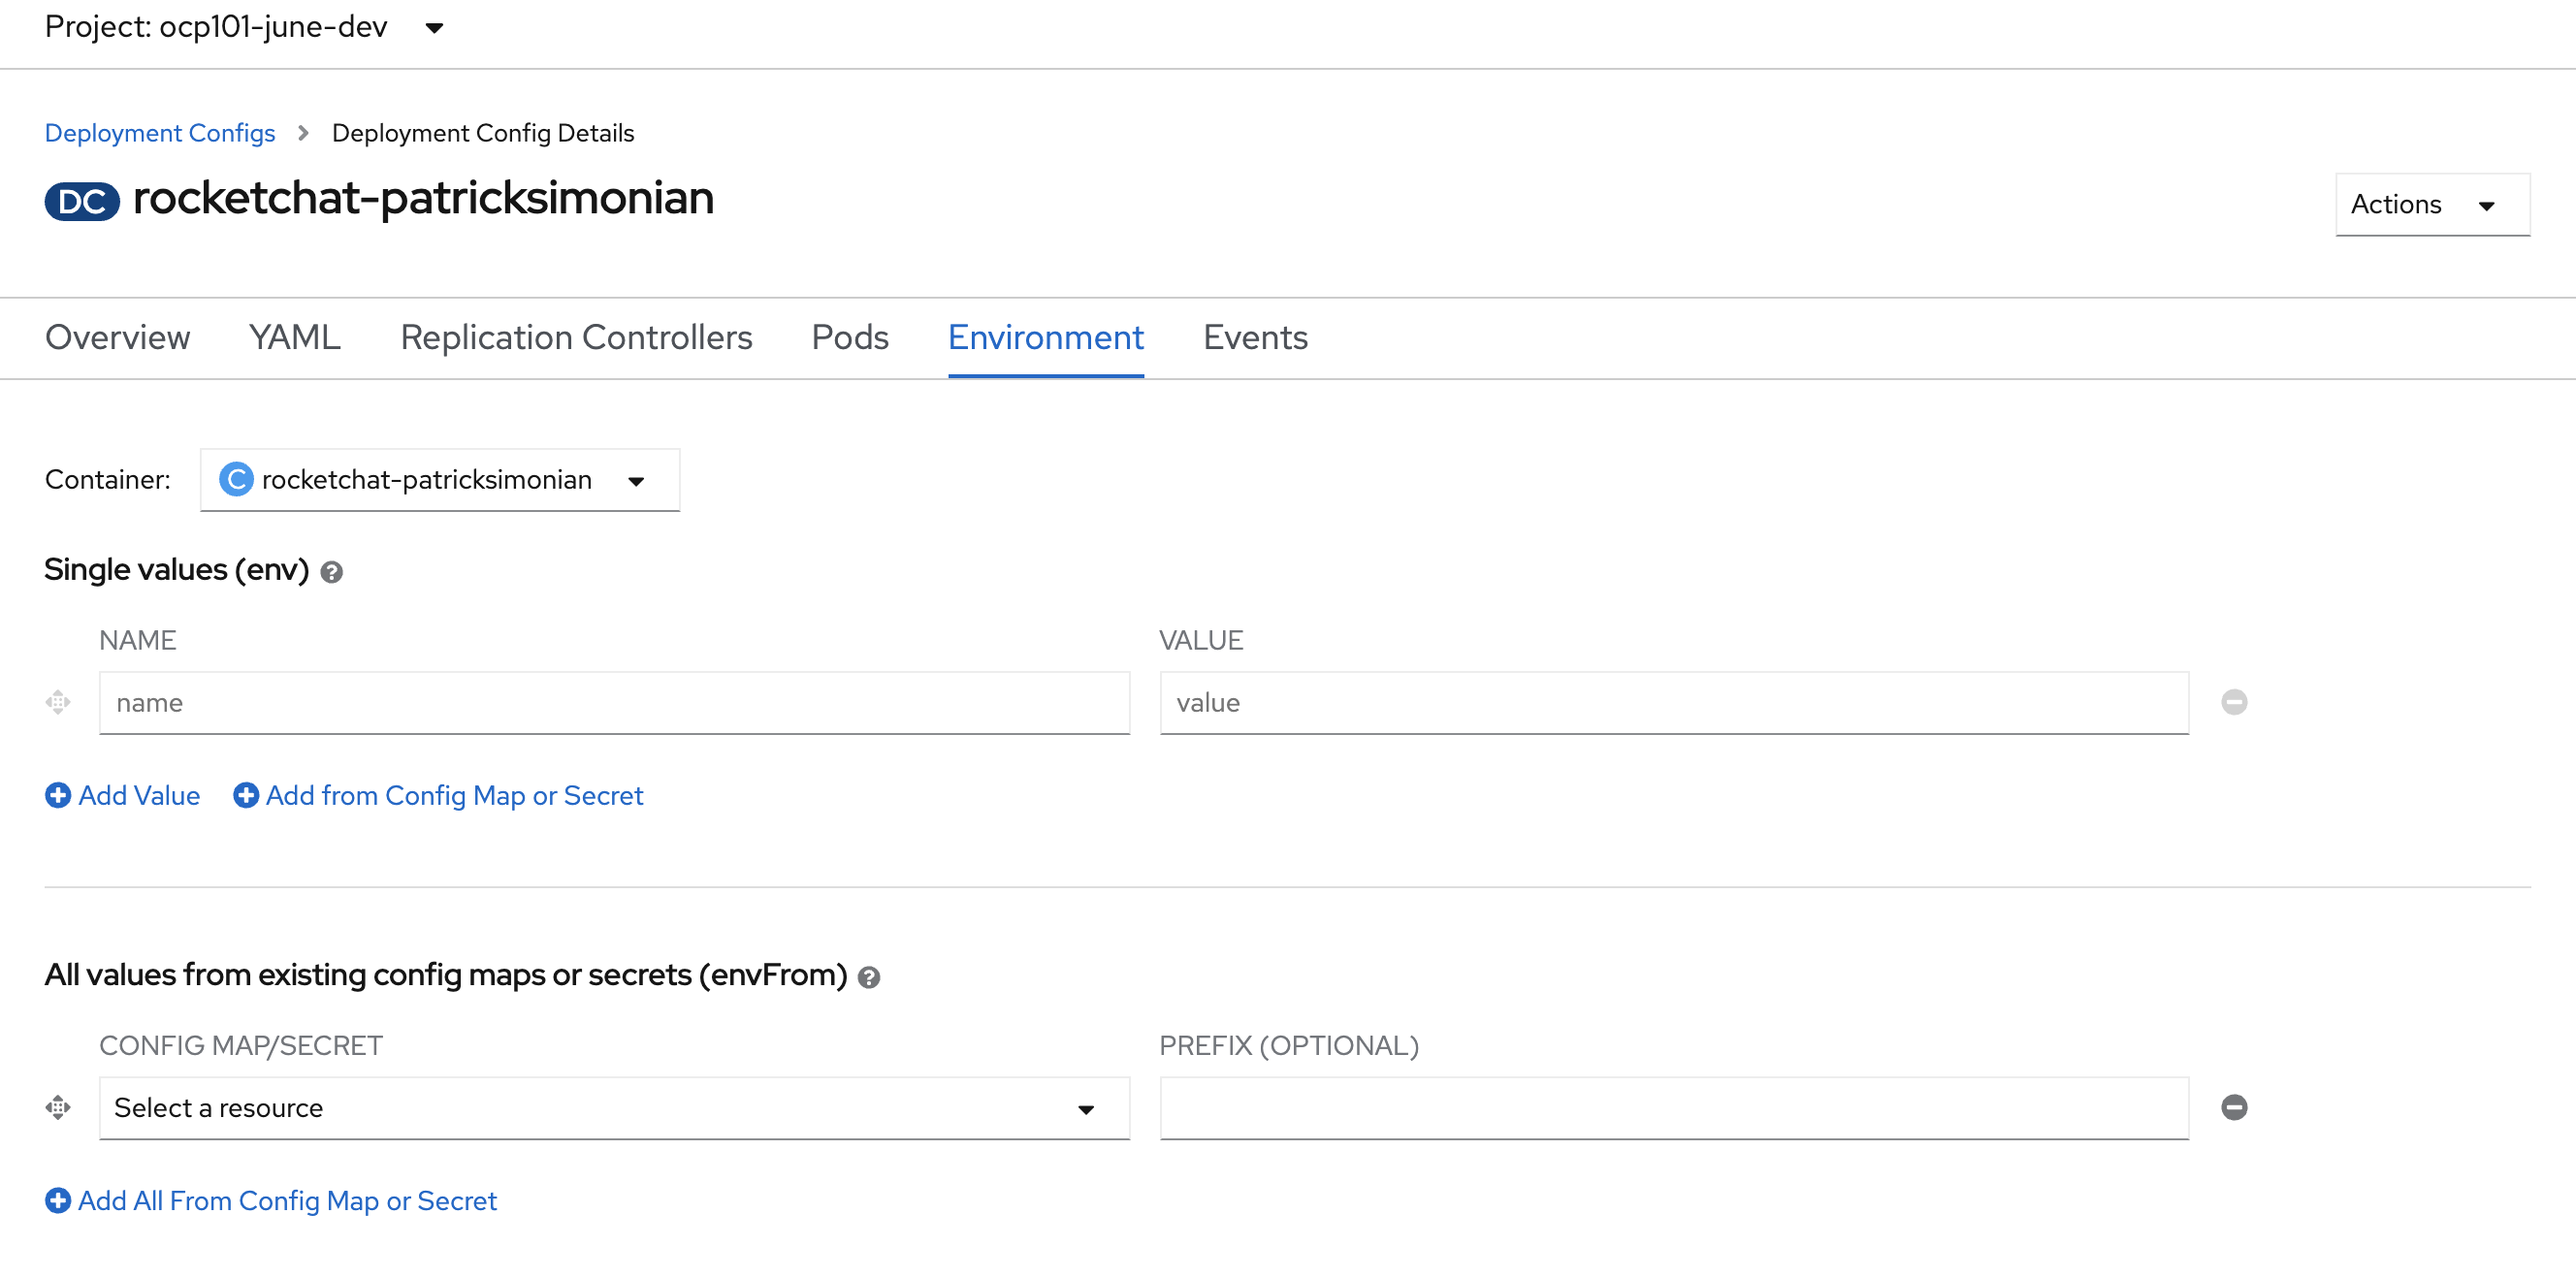
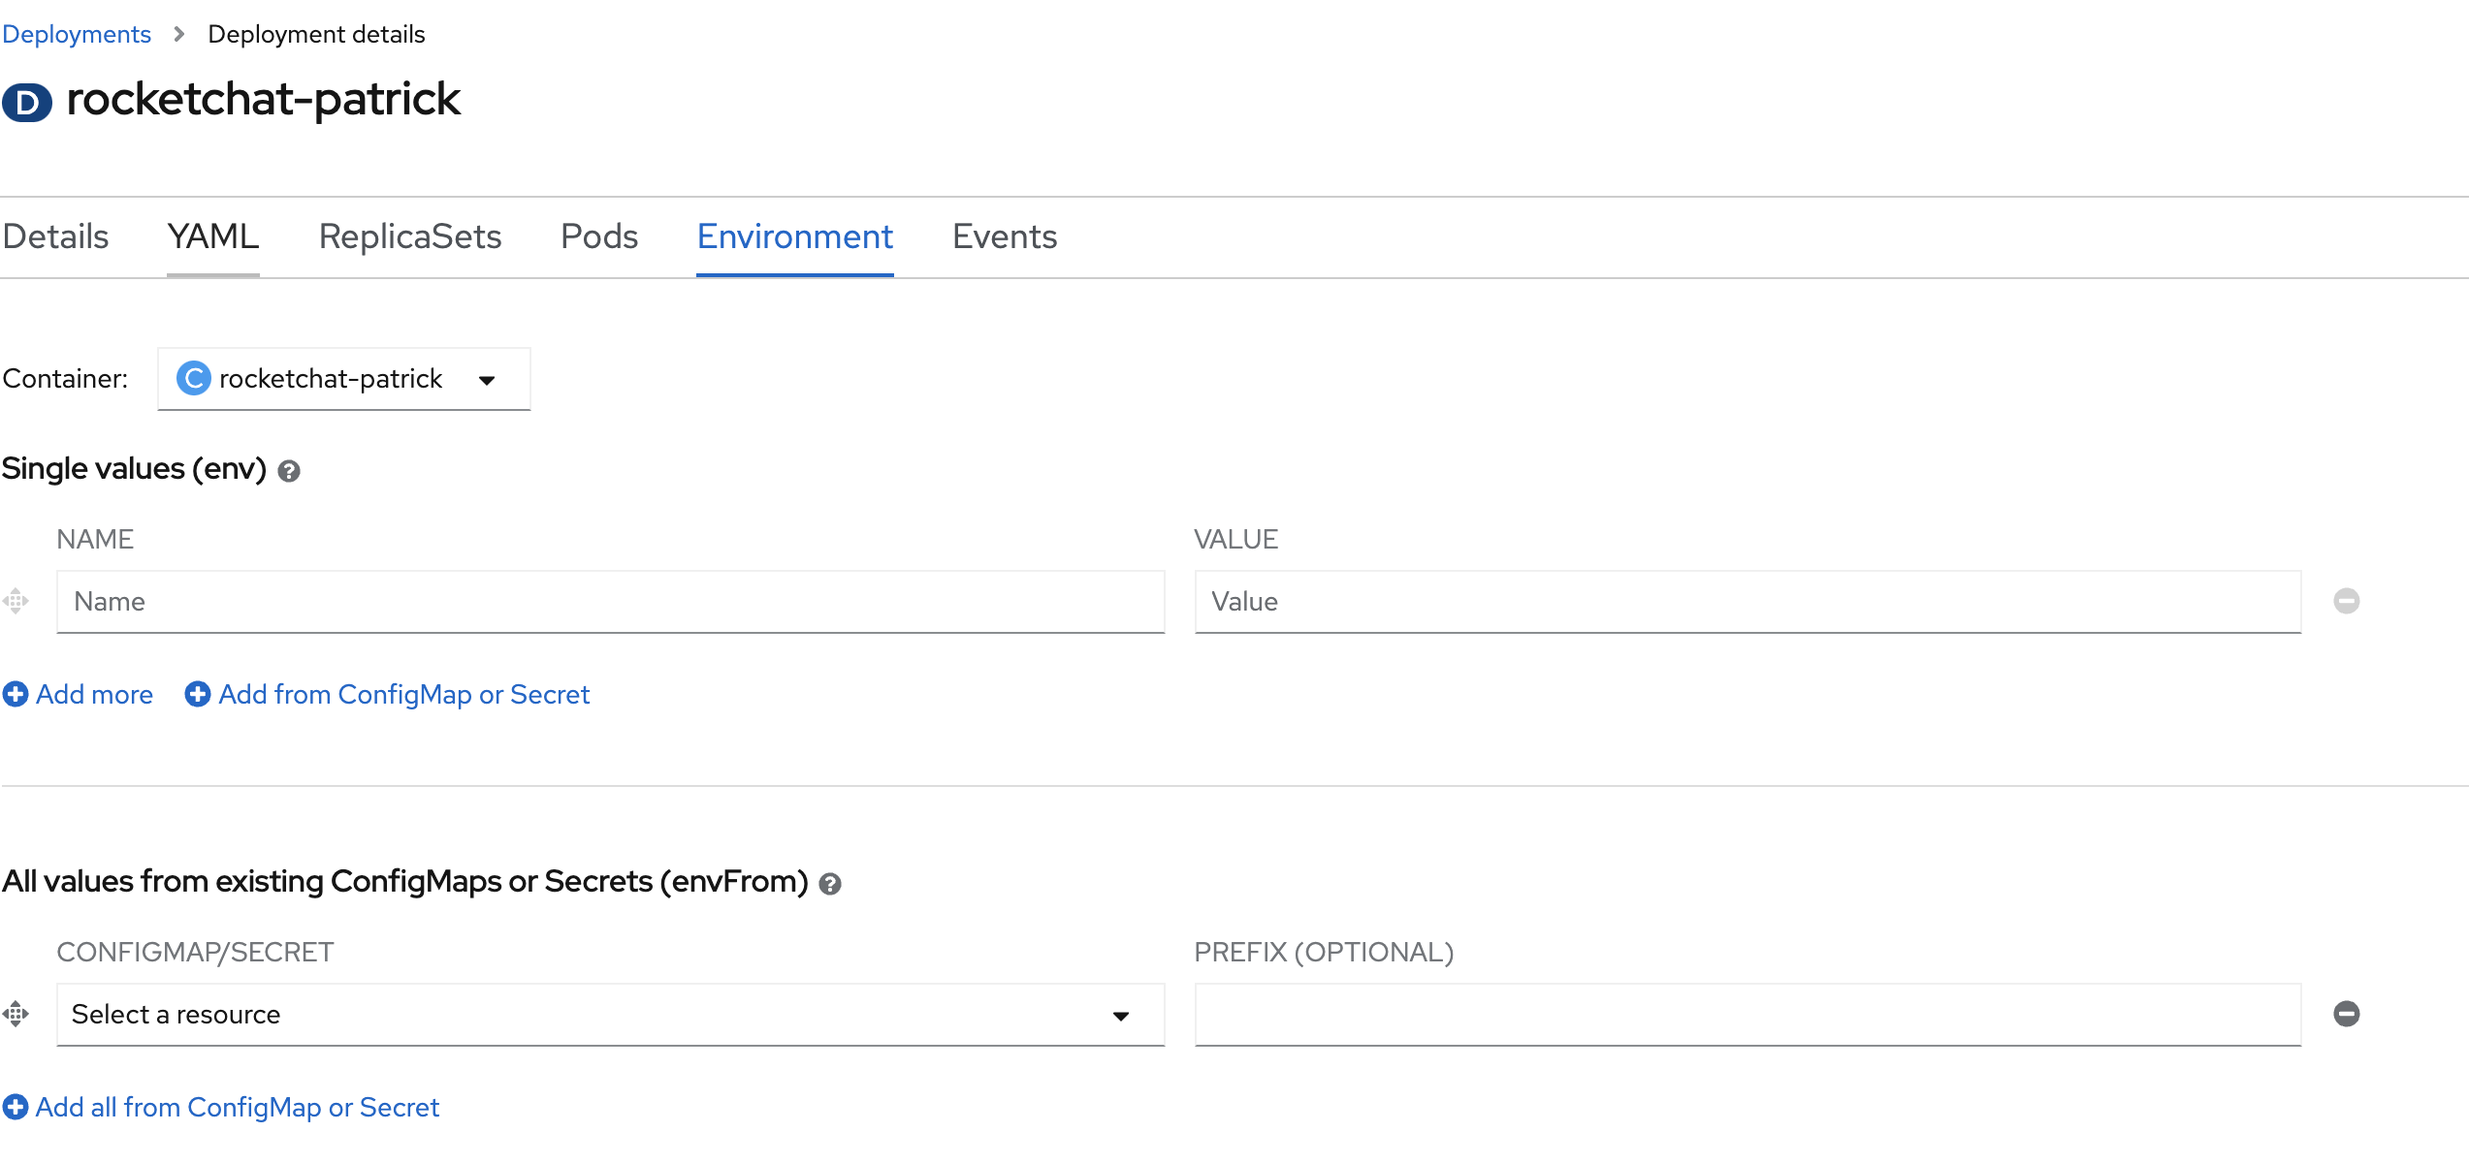
deployment slides

diff --git a/101-lab/content/03_deployment.md b/101-lab/content/03_deployment.md
@@ -100,16 +100,14 @@ Deploying images from another namespace can run you into some issues that are ea
 
 Your Tools namespace has quota that can be best utilized for your CI (Continuous Integration) and devops workloads. Since building an image is apart of the CI pipeline you can run your builds there without impacting the cpu or memory availability for deployment workloads. 
 
+When you ran `oc new-app` a new imagestream was created in your `dev` namespace with an image that points to your `tools` namespace. To import the image from one namespace to another you can:
 
-1. First create a new imagestream in your deploy project
-`oc -n [-dev] create imagestream rocketchat-[username]`
-
-2. Re-tag your tools image tag into this new imagestream
+1. Re-tag your tools image tag into this new imagestream
 
 `oc -n [-dev] tag [-tools]/rocketchat-[username]:dev rocketchat-[username]:dev`
 
-3. Modify your Rocket Chat deployment to point to the new image stream.
-`oc -n [-dev] set image deployment/rocketchat-[username] rocketchat-[username]=rocketchat-[patricksimonian]:dev`
+2. Modify your Rocket Chat deployment to point to the new image stream.
+`oc -n [-dev] set image deployment/rocketchat-[username] rocketchat-[username]=rocketchat-[username]:dev`
 
 ## __Objective 3__: Identify CrashLoopBackOff problem
 
@@ -197,13 +195,7 @@ oc -n openshift get template/mongodb-ephemeral -o json | oc process -f - --param
   - Find the mongodb deployment by going back to `Topology`
   - Wait until MongoDB has been successfully deployed
   MongoDB will generate a lot of logs. Since MongoDB comes with a readiness probe check for pod/container readiness, to know when it is up and ready.
-  ```oc:cli
-  # using oc rollout latest; or
-  oc -n [-dev] rollout latest mongodb-[username]
-
-  # using watch (please note that MongoDB is deployed as a deployment type object)
-  oc -n [-dev] get pods --field-selector=status.phase=Running -l deploymentconfig=mongodb-[username] -o 'jsonpath={range .items[*].status.containerStatuses[*]}{.name}{"\t"}{.ready}{"\n"}{end}'
-  ```
+  
   You can safely ignore repeated messages as such:
   ```
   2020-02-06T06:23:41.391+0000 [conn11041]  authenticate db: rocketchat { authenticate: 1, nonce: "xxx", user: "dbuser", key: "xxx" }
@@ -213,14 +205,14 @@ oc -n openshift get template/mongodb-ephemeral -o json | oc process -f - --param
 As a result of using a generic `new-app` style deployment, as opposed to openshift specific templates, a lot of defaults are leveraged. 
 
 ### Environment Variables
-By default your rocketchat deployment have no environment variables defined. So, while RocketChat is trying to start, and 
-a database has been deployed, the app does not know how or where to connect to MongoDB. We will need to add an environment variable to the deployment configuration.
+By default your rocketchat deployment has no environment variables defined. So while RocketChat is trying to start and 
+a database has been deployed, the app does not know how or where to connect to MongoDB. We will need to add environment variables to the deployment configuration.
 
 - In the Web Console, navigate to `Topology` and select your rocketchat deployment
 - Select the `Actions` tab on the top right
 ![](./images/03_deploy_env_01.png)
 
-- Select `Edit Deployment Config`
+- Select `Edit Deployment`
 - Select the `Environment` tab
 ![](./images/03_deploy_env_02.png)
 
@@ -238,7 +230,6 @@ oc -n [-dev] set env deployment/rocketchat-[username] "MONGO_URL=mongodb://dbuse
 
 - Click Save 
 - Navigate to `Topology` and investigate your RocketChat Deployment Config. It should be redeploying (successfully this time)
-![](./images/03_deploy_config_02.png)
 
 
 #### STRETCH: Sensitive Configurations
@@ -247,6 +238,7 @@ oc -n [-dev] set env deployment/rocketchat-[username] "MONGO_URL=mongodb://dbuse
 If you are feeling at odds with things like __dbpass__ being out in the open as an environment variable. That is a good thing! For demonstration purposes you are creating a `Single Value Env`. Sensitive information like passwords should be stored in a `Secret` and referenced as `envFrom`. In addition, you can also use the [Downward API](https://docs.openshift.com/container-platform/4.4/nodes/containers/nodes-containers-downward-api.html#nodes-containers-downward-api-container-secrets_nodes-containers-downward-api) to refer to the secret created by MongoDB.
   ```oc:cli
   oc -n [-dev] rollout pause deployment/rocketchat-[username] 
+
   oc -n [-dev] patch deployment/rocketchat-[username] -p '{"spec":{"template":{"spec":{"containers":[{"name":"rocketchat-[username]", "env":[{"name":"MONGO_USER", "valueFrom":{"secretKeyRef":{"key":"database-user", "name":"mongodb-[username]"}}}]}]}}}}'
 
   oc -n [-dev] patch deployment/rocketchat-[username] -p '{"spec":{"template":{"spec":{"containers":[{"name":"rocketchat-[username]", "env":[{"name":"MONGO_PASS", "valueFrom":{"secretKeyRef":{"key":"database-password", "name":"mongodb-[username]"}}}]}]}}}}'
@@ -258,8 +250,6 @@ If you are feeling at odds with things like __dbpass__ being out in the open as 
   # Check environment variables configuration
   oc -n [-dev] get deployment/rocketchat-[username] -o json | jq '.spec.template.spec.containers[].env'
   ```
-  *bonus*: Try to leverage the Downward API and `envFrom` so that sensitive values such as the mongo db password are not exposed
-
 
 ## Create a Route for your Rocket.Chat App
 Your rocketchat application should already have a route created for it. If you were using `oc new-app` however, a route would not have been created by default. 
@@ -277,6 +267,10 @@ oc -n [-dev] expose svc/rocketchat-[username]
 ```oc:cli
 oc -n [-dev] create route edge rocketchat-[username] --service=rocketchat-[username] --insecure-policy=Redirect
 ```
+
+After creating the route you may access your application! 
+![rocketchat](./images/03_deploy_route.png)
+
 <!-- 
 not sure how to navigate to routes from web console in ocp4
 ### Web Console
@@ -287,66 +281,33 @@ not sure how to navigate to routes from web console in ocp4
 ![](./images/03_deploy_route.png) -->
 
 ## Exploring Health Checks
-With the new deployment running, monitor the readiness of the pod.
-  - Navigate to `Search` from the left menu panel and filter by name
-  > you can also view pods from a deployment config
-
-  - Notice that pod 'readiness' is ready
-
 
 - If you redeploy the rocket chat application there is an interval where the pod is considered ready but it is still not available to be accessed.
-- You can check this by redeploying the pod, waiting for the pod to be `ready` and then visit your
-Rocket Chat url.
+- You can check this by killing the pod, waiting for the pod to redeploy and be `ready` and then visit your
+Rocket Chat url. 
 
 
-![](./images/03_deploy_health_01.png)
+
+
+![](./images/03_deploy_pod_delete_01.png)
+![](./images/03_deploy_pod_delete_02.png)
+
 
 
 ### Adding a Healthcheck
 A container that is marked `ready` when it is not is an indication of a lack of (or misconfigured) healthcheck. 
 
-You will now add a healthcheck for `readiness` and `liveness`. 
+You can add a healthcheck for `readiness` and `liveness`. 
 
 ### Using cli
 ```oc:cli
 oc -n [-dev] set probe deployment/rocketchat-[username] --readiness --get-url=http://:3000/ --initial-delay-seconds=15
 
-# Watch your RocketChat deployment from the Web Console. At the same time
-# watch Rocket Chat response (press CTRL+c to exit watch)
-watch -dg -n 1 curl -fsSL http://rocketchat-[username]-[namespace].apps.training-us.clearwater.devops.gov.bc.ca/api/info
 ```
-### Using Web Console
 
-- From the Web Console, navigate to your Rocket Chat Deployment Config and select the `YAML` tab
 
-![](./images/03_deploy_health_02.png)
-![](./images/03_deploy_health_03.png)
+### Summary
 
-- Insert this snippet of code into the `spec.template.spec.containers`
-  ```yaml
-  readinessProbe: 
-    httpGet:
-      path: /
-      port: 3000
-    initialDelaySeconds: 60  
-    timeoutSeconds: 1  
-  livenessProbe:
-    httpGet:
-      path: /
-      port: 3000
-      scheme: HTTP
-      httpHeaders:
-        - name: X-Custom-Header
-          value: Awesome
-    initialDelaySeconds: 60
-    timeoutSeconds: 1
-    periodSeconds: 10
-    successThreshold: 1
-    failureThreshold: 3
-  ```
-![](./images/03_deploy_health_04.png)
-![](./images/03_deploy_health_05.png)
+You added a __readiness__ check to the `rocketchat-[username]` deployment so that you no longer have a false positive of when the pod should be considered available. By default pods are considered to be 'ready' when the container starts up and the entrypoint script is running. This however is not useful for things like webservers or databases! Not only do you need the entrypoint script to run but you need to wait for the server to listen on a port. 
 
-- make sure to save!
 
-- While the new deployment rolls out, continue to refresh the public route and validate that it stays up
